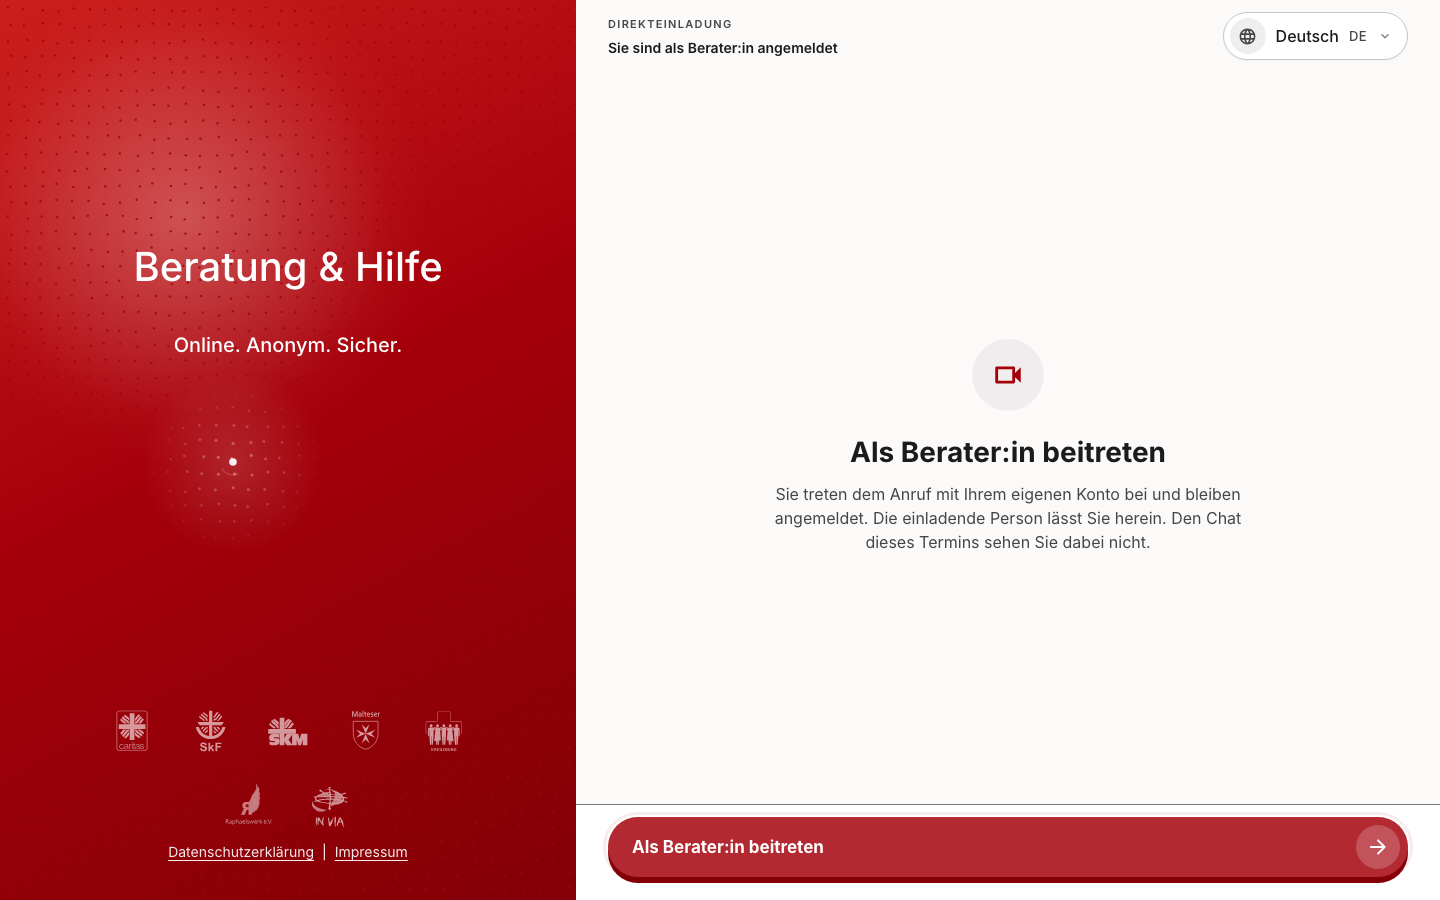
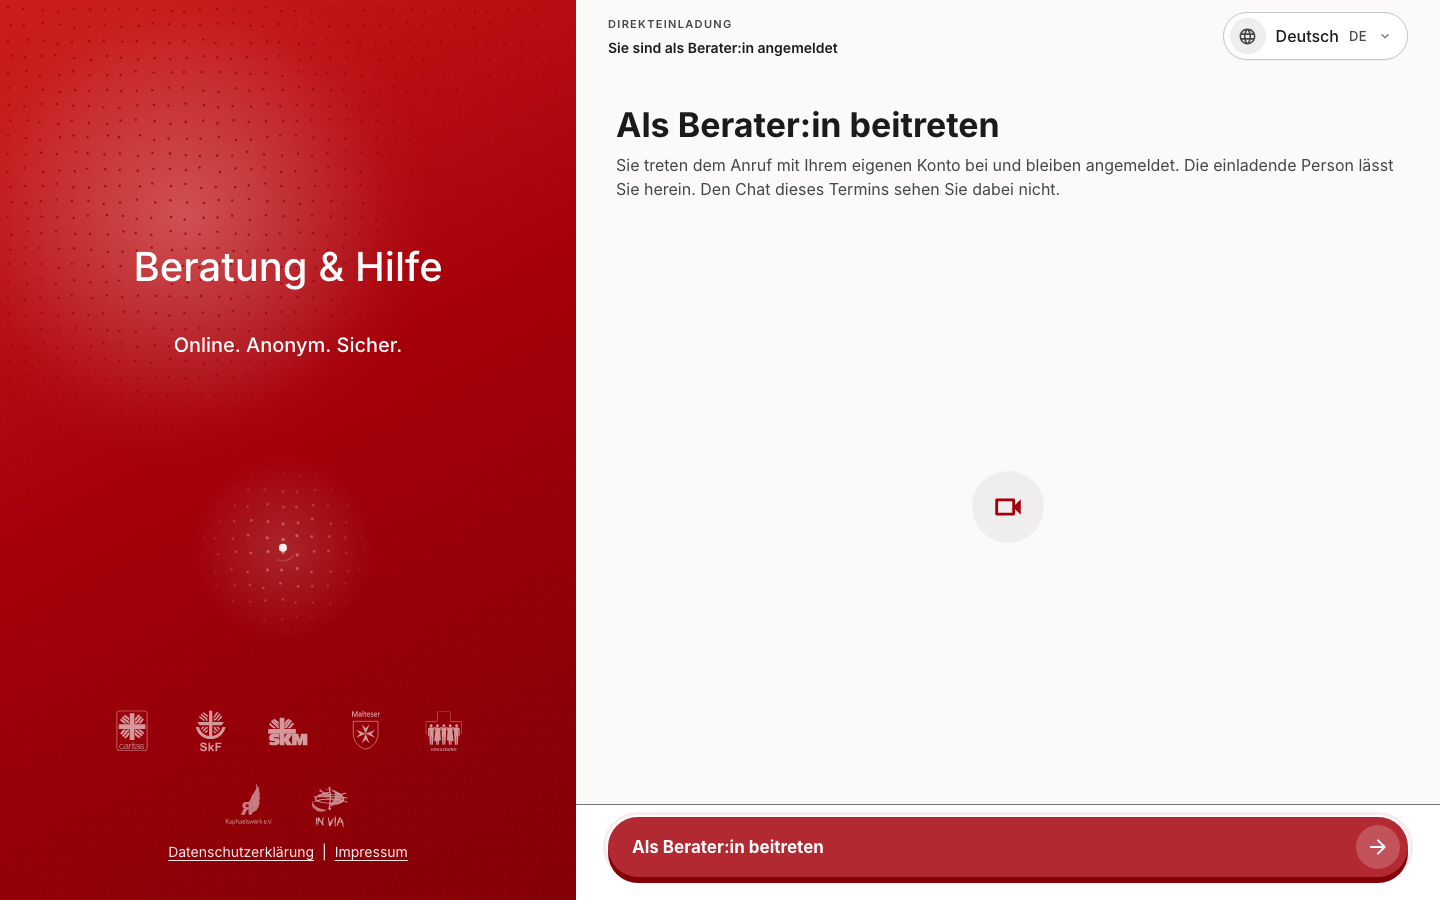
fix(invite): staff join room on the waiting-room template; drop stale answers
Review findings on #2536 (Codex):
- The room is laid out by the mandatory WaitingRoomTemplate with the
  HandoverGateButton as its gate (AGENTS.md "one frame, one bar, one
  gate"); "Abbrechen" sits in the template's quiet row while waiting.
- "Abbrechen" invalidates the current attempt: an answer to a request
  sent before it can no longer bring the waiting room back or open the
  call.

Screenshots retaken for the new layout.

Refs OpenResilienceInitiative/ORISO-Frontend#2356

diff --git a/src/components/invite/staffJoin/StaffCallJoinRoom.tsx b/src/components/invite/staffJoin/StaffCallJoinRoom.tsx
@@ -2,25 +2,22 @@
  * ORISO-Frontend#2356: what a signed-in counsellor sees on a Direkteinladung's
  * page. They join the call only, with their own account; the conversation's
  * counsellor lets them in like a guest. One room of the shared waiting-room
- * frame (`EntryRoomShell` → `WaitingRoomFrame`, the shared bar), in the
- * pattern of `InvitationEntryStates`.
+ * frame (`EntryRoomShell` → `WaitingRoomFrame`), laid out by the one
+ * `WaitingRoomTemplate` with the `HandoverGateButton` as its gate.
  */
 import * as React from 'react';
 import { useTranslation } from 'react-i18next';
-import { Box, Typography } from '@mui/material';
+import { Box, ButtonBase } from '@mui/material';
 import CallOutlinedIcon from '@mui/icons-material/CallOutlined';
 import HourglassEmptyOutlinedIcon from '@mui/icons-material/HourglassEmptyOutlined';
 import BlockOutlinedIcon from '@mui/icons-material/BlockOutlined';
 import CallEndOutlinedIcon from '@mui/icons-material/CallEndOutlined';
 import VideocamOutlinedIcon from '@mui/icons-material/VideocamOutlined';
 import { EntryRoomShell } from '../../anonymousChat/entryRoom/EntryRoomShell';
-import { WaitingRoomBar } from '../../waitingRoom/WaitingRoomBar';
-import { registrationScreenTitleSx } from '../../registration/registrationDesign/registrationDesign';
-import {
-	RoomIcon,
-	RoomText,
-	roomColumnSx
-} from '../../directInvitation/InvitationEntryStates';
+import { WaitingRoomTemplate } from '../../waitingRoom/WaitingRoomTemplate';
+import { HandoverGateButton } from '../../app/registrationLoader/HandoverGateButton';
+import { registrationMd3 } from '../../registration/registrationDesign/registrationDesign';
+import { RoomIcon } from '../../directInvitation/InvitationEntryStates';
 
 export const STAFF_JOIN_KEYS = 'directLink.staffJoin';
 
@@ -73,28 +70,35 @@ export const StaffCallJoinRoom = ({
 	const icon =
 		ICONS[phase] ??
 		(medium === 'VIDEO' ? <VideocamOutlinedIcon /> : <CallOutlinedIcon />);
-	const primary =
+	const waiting = phase === 'waiting' || phase === 'notStarted';
+	/* The gate: open to join or retry, a quiet sweep while waiting, and the
+	   way back to the own conversations once this call is out of reach. */
+	const gate =
 		phase === 'offer' || phase === 'joining' || phase === 'error'
 			? {
+					state:
+						phase === 'joining'
+							? ('entering' as const)
+							: ('ready' as const),
 					label: t(
 						phase === 'error'
 							? `${STAFF_JOIN_KEYS}.retry`
 							: `${STAFF_JOIN_KEYS}.offer.join`
 					),
-					onClick: onJoin,
-					busy: phase === 'joining',
-					disabled: phase === 'joining',
+					onEnter: onJoin,
 					testId: 'staff-join-button'
 				}
-			: phase === 'waiting' || phase === 'notStarted'
+			: waiting
 				? {
-						label: t(`${STAFF_JOIN_KEYS}.cancel`),
-						onClick: onCancel,
-						testId: 'staff-join-cancel'
+						state: 'queued' as const,
+						label: t(`${STAFF_JOIN_KEYS}.${key}.status`),
+						onEnter: () => undefined,
+						testId: 'staff-join-waiting'
 					}
 				: {
+						state: 'ready' as const,
 						label: t(`${STAFF_JOIN_KEYS}.openOwnSessions`),
-						onClick: onOpenOwnSessions,
+						onEnter: onOpenOwnSessions,
 						testId: 'staff-join-own-sessions'
 					};
 	return (
@@ -102,24 +106,62 @@ export const StaffCallJoinRoom = ({
 			kicker={t(`${STAFF_JOIN_KEYS}.kicker`)}
 			statusLine={t(`${STAFF_JOIN_KEYS}.${key}.status`)}
 		>
+			{/* `contents`: the template's parts stay children of the room's
+			    column; this box only carries the test hooks. */}
 			<Box
-				component="section"
-				aria-labelledby="staffJoinTitle"
 				data-testid="staff-join-room"
 				data-phase={phase}
-				sx={roomColumnSx}
+				sx={{ display: 'contents' }}
 			>
-				<RoomIcon>{icon}</RoomIcon>
-				<Typography
-					id="staffJoinTitle"
-					component="h1"
-					sx={{ ...registrationScreenTitleSx, mt: 3 }}
+				<WaitingRoomTemplate
+					headline={t(`${STAFF_JOIN_KEYS}.${key}.title`)}
+					status={t(`${STAFF_JOIN_KEYS}.${key}.text`)}
+					aside={
+						waiting ? (
+							<ButtonBase
+								data-testid="staff-join-cancel"
+								onClick={onCancel}
+								sx={{
+									fontSize: 14,
+									color: registrationMd3.onSurfaceVariant,
+									textDecoration: 'underline',
+									textAlign: 'left'
+								}}
+							>
+								{t(`${STAFF_JOIN_KEYS}.cancel`)}
+							</ButtonBase>
+						) : undefined
+					}
+					gate={
+						<Box sx={{ flex: '1 1 0', minWidth: 0 }}>
+							<HandoverGateButton
+								state={gate.state}
+								onEnter={() => {
+									gate.onEnter();
+									return undefined;
+								}}
+								label={gate.label}
+								/* The room's status line already says (and
+								   announces) this; a second live region would
+								   read it twice. */
+								status=""
+								testId={gate.testId}
+							/>
+						</Box>
+					}
 				>
-					{t(`${STAFF_JOIN_KEYS}.${key}.title`)}
-				</Typography>
-				<RoomText>{t(`${STAFF_JOIN_KEYS}.${key}.text`)}</RoomText>
+					<Box
+						sx={{
+							flex: 1,
+							display: 'flex',
+							alignItems: 'center',
+							justifyContent: 'center'
+						}}
+					>
+						<RoomIcon>{icon}</RoomIcon>
+					</Box>
+				</WaitingRoomTemplate>
 			</Box>
-			<WaitingRoomBar primary={primary} />
 		</EntryRoomShell>
 	);
 };

diff --git a/src/components/invite/staffJoin/StaffCallJoinRoom.stories.tsx b/src/components/invite/staffJoin/StaffCallJoinRoom.stories.tsx
@@ -1,6 +1,6 @@
 import * as React from 'react';
 import type { Meta, StoryObj } from '@storybook/react';
-import { expect, fn, userEvent, within } from 'storybook/test';
+import { expect, fn, userEvent, waitFor, within } from 'storybook/test';
 import {
 	desktop1440Globals,
 	phone390Globals
@@ -69,9 +69,13 @@ export const Offer: Story = {
 	globals: desktop1440Globals,
 	play: async ({ canvasElement, args }) => {
 		await expectWaitingRoomLayout(canvasElement);
-		await expect(
-			body().getByRole('heading', { name: 'Als Berater:in beitreten' })
-		).toBeVisible();
+		await waitFor(() =>
+			expect(
+				body().getByRole('heading', {
+					name: 'Als Berater:in beitreten'
+				})
+			).toBeVisible()
+		);
 		await userEvent.click(body().getByTestId('staff-join-button'));
 		await expect(args.onJoin).toHaveBeenCalledTimes(1);
 	}
@@ -88,9 +92,11 @@ export const OfferAudioEnglish: Story = {
 	globals: { ...desktop1440Globals, locale: 'en' },
 	play: async ({ canvasElement }) => {
 		await expectWaitingRoomLayout(canvasElement);
-		await expect(
-			body().getByRole('heading', { name: 'Join as counsellor' })
-		).toBeVisible();
+		await waitFor(() =>
+			expect(
+				body().getByRole('heading', { name: 'Join as counsellor' })
+			).toBeVisible()
+		);
 	}
 };
 
@@ -105,9 +111,11 @@ export const Waiting: Story = {
 	globals: desktop1440Globals,
 	play: async ({ canvasElement, args }) => {
 		await expectWaitingRoomLayout(canvasElement);
-		await expect(
-			body().getByRole('heading', { name: 'Sie haben angeklopft' })
-		).toBeVisible();
+		await waitFor(() =>
+			expect(
+				body().getByRole('heading', { name: 'Sie haben angeklopft' })
+			).toBeVisible()
+		);
 		await userEvent.click(body().getByTestId('staff-join-cancel'));
 		await expect(args.onCancel).toHaveBeenCalledTimes(1);
 	}

diff --git a/src/components/invite/staffJoin/StaffCallJoin.test.tsx b/src/components/invite/staffJoin/StaffCallJoin.test.tsx
@@ -27,13 +27,16 @@ vi.mock('../../anonymousChat/entryRoom/EntryRoomShell', () => ({
 	)
 }));
 vi.mock('../../waitingRoom/WaitingRoomBar', () => ({
-	WaitingRoomBar: ({ primary }: any) => (
+	WaitingRoomBar: ({ children }: any) => <footer>{children}</footer>
+}));
+vi.mock('../../app/registrationLoader/HandoverGateButton', () => ({
+	HandoverGateButton: (props: any) => (
 		<button
-			data-testid={primary.testId}
-			disabled={primary.disabled}
-			onClick={primary.onClick}
+			data-testid={props.testId}
+			disabled={props.state !== 'ready'}
+			onClick={props.onEnter}
 		>
-			{primary.label}
+			{props.label}
 		</button>
 	)
 }));
@@ -183,6 +186,35 @@ describe('StaffCallJoin (#2356)', () => {
 		await clickJoin();
 		expect(deps.join).toHaveBeenCalledTimes(2);
 		expect(phase()).toBe('waiting');
+	});
+
+	it('ignores an answer that arrives after "Abbrechen"', async () => {
+		let answer: (value: StaffJoin) => void = () => undefined;
+		const join = vi
+			.fn()
+			.mockResolvedValueOnce({ outcome: 'WAITING', knockId: 9 })
+			.mockImplementationOnce(
+				() => new Promise<StaffJoin>((resolve) => (answer = resolve))
+			);
+		const renderCall = vi.fn(() => <div data-testid="call" />);
+		render(
+			<StaffCallJoin
+				token="tok"
+				medium="VIDEO"
+				deps={{ join, renderCall, leave: () => Promise.resolve() }}
+			/>
+		);
+		await clickJoin();
+		await act(async () => {
+			vi.advanceTimersByTime(STAFF_JOIN_POLL_MS);
+		});
+		expect(join).toHaveBeenCalledTimes(2);
+
+		fireEvent.click(screen.getByTestId('staff-join-cancel'));
+		await act(async () => answer({ outcome: 'SEATED', seat: SEAT }));
+
+		expect(phase()).toBe('offer');
+		expect(renderCall).not.toHaveBeenCalled();
 	});
 
 	it('withdraws the knock on cancel and when the page closes', async () => {

diff --git a/src/components/invite/staffJoin/StaffCallJoin.tsx b/src/components/invite/staffJoin/StaffCallJoin.tsx
@@ -91,6 +91,9 @@ export const StaffCallJoin = ({
 	const renderCall = deps?.renderCall ?? defaultRenderCall(token);
 	const [state, setState] = useState<State>({ phase: 'offer' });
 	const mounted = useRef(true);
+	/* Bumped on "Abbrechen": an answer to a request sent before it is stale
+	   and must neither bring the waiting room back nor open the call. */
+	const attempt = useRef(0);
 	useEffect(
 		() => () => {
 			mounted.current = false;
@@ -104,9 +107,11 @@ export const StaffCallJoin = ({
 
 	const visit = useCallback(
 		async (waitingFor?: number) => {
+			const mine = attempt.current;
+			const current = () => mounted.current && mine === attempt.current;
 			try {
 				const answer = await join(token, waitingFor);
-				if (!mounted.current) return;
+				if (!current()) return;
 				switch (answer.outcome) {
 					case 'MEMBER':
 						navigate(ownSessionPath(answer.sessionId));
@@ -128,7 +133,7 @@ export const StaffCallJoin = ({
 						return;
 				}
 			} catch (error) {
-				if (mounted.current) setState({ phase: phaseOfError(error) });
+				if (current()) setState({ phase: phaseOfError(error) });
 			}
 		},
 		[join, navigate, token]
@@ -168,6 +173,7 @@ export const StaffCallJoin = ({
 				void visit();
 			}}
 			onCancel={() => {
+				attempt.current += 1;
 				void leave(token).catch(() => undefined);
 				setState({ phase: 'offer' });
 			}}

diff --git a/src/components/directInvitation/InvitationEntryStates.tsx b/src/components/directInvitation/InvitationEntryStates.tsx
@@ -81,13 +81,13 @@ export const RoomIcon = ({ children }: { children: React.ReactNode }) => (
 	</Box>
 );
 
-export const RoomText = ({ children }: { children: React.ReactNode }) => (
+const RoomText = ({ children }: { children: React.ReactNode }) => (
 	<Typography sx={{ ...registrationScreenIntroSx, mt: 1.5 }}>
 		{children}
 	</Typography>
 );
 
-export const roomColumnSx = {
+const roomColumnSx = {
 	flex: 1,
 	display: 'flex',
 	flexDirection: 'column',
